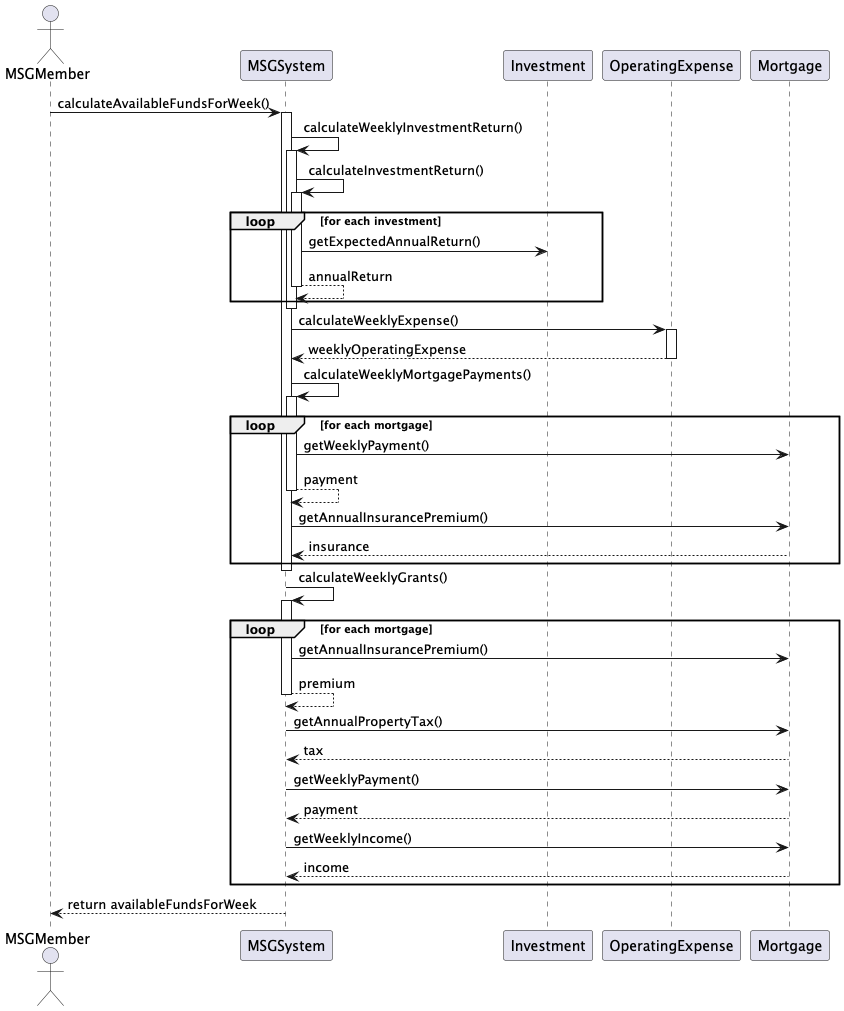
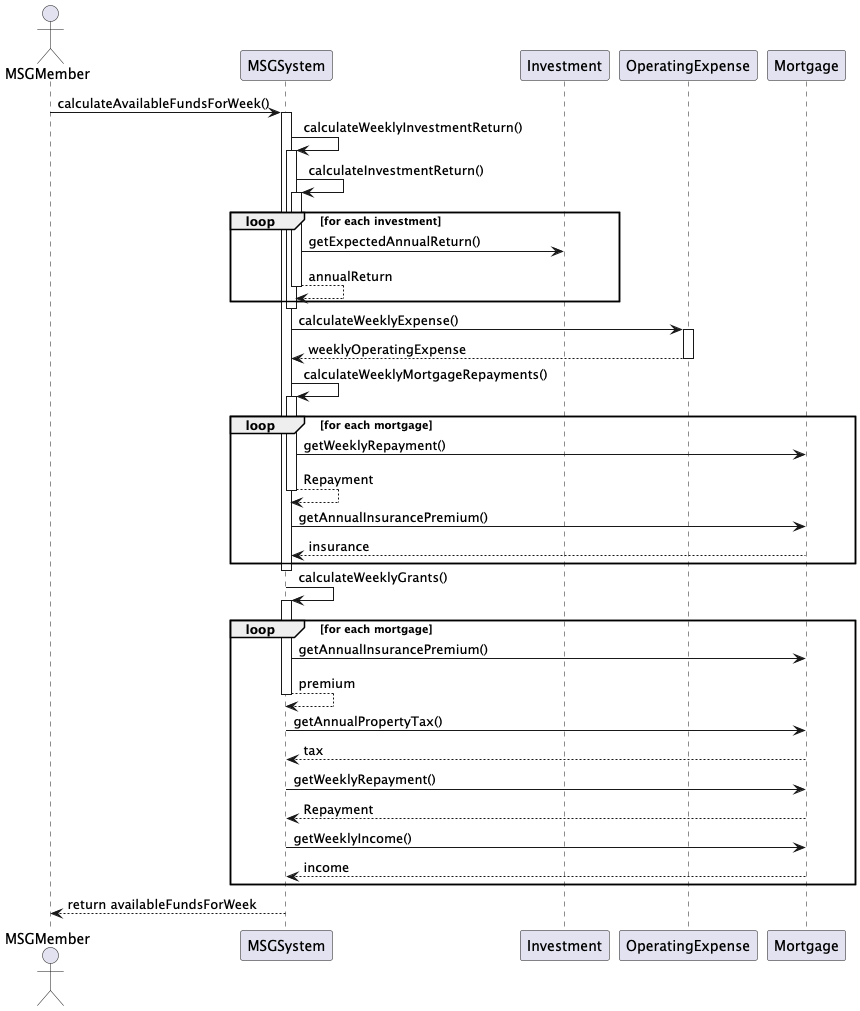
Fix : Payment -> Repayment 워딩 수정

diff --git a/MsgSystem.java b/MsgSystem.java
@@ -8,7 +8,7 @@ public class MsgSystem {
 
     private double availableFundsForWeek;
     private double expectedGrantsForWeek;
-    private double expectedMortgagePaymentsForWeek;
+    private double expectedMortgageRepaymentsForWeek;
 
     public MsgSystem(List<Investment> investments, List<Mortgage> mortgages, OperatingExpense expense) {
         this.investments = investments;
@@ -32,13 +32,13 @@ public class MsgSystem {
         return operatingExpense.calculateWeeklyExpense();
     }
 
-    public double calculateWeeklyMortgagePayments() {
+    public double calculateWeeklyMortgageRepayments() {
         double total = 0.0;
         for (Mortgage mortgage : mortgages) {
-            double escrow = (mortgage.getAnnualInsurancePremium() * mortgage.getAnnualPropetyTax()) / 52.0;
-            total += mortgage.getWeeklyPayment() + escrow;
+            double escrow = (mortgage.getAnnualInsurancePremium() * mortgage.getAnnualPropertyTax()) / 52.0;
+            total += mortgage.getWeeklyRepayment() + escrow;
         }
-        this.expectedMortgagePaymentsForWeek = total;
+        this.expectedMortgageRepaymentsForWeek = total;
         return total;
     }
 
@@ -46,7 +46,7 @@ public class MsgSystem {
         double total = 0.0;
         for (Mortgage mortgage : mortgages) {
             double escrow = (mortgage.getAnnualInsurancePremium() + mortgage.getAnnualPropertyTax()) / 52.0;
-            double totalWeeklyPay = mortgage.getWeeklyPayment() + escrow;
+            double totalWeeklyPay = mortgage.getWeeklyRepayment() + escrow;
             double incomeLimit = mortgage.getWeeklyIncome() * 0.28;
 
             if (totalWeeklyPay <= incomeLimit) {
@@ -60,10 +60,10 @@ public class MsgSystem {
     public double calculateAvailableFundsForWeek() {
         double weeklyInvestment = calculateWeeklyInvestmentReturn();
         double weeklyOperatingExpense = calculateWeeklyOperatingExpense();
-        double weeklyMortgagePayments = calculateWeeklyMortgagePayments();
+        double weeklyMortgageRepayments = calculateWeeklyMortgageRepayments();
         double weeklyGrants = calculateWeeklyGrants();
 
-        this.availableFundsForWeek = weeklyInvestment + weeklyOperatingExpense + weeklyMortgagePayments + weeklyGrants;
+        this.availableFundsForWeek = weeklyInvestment + weeklyOperatingExpense + weeklyMortgageRepayments + weeklyGrants;
         return this.availableFundsForWeek;
     }
 
@@ -72,7 +72,7 @@ public class MsgSystem {
         System.out.println("예상 연간 운영 비용: " + operatingExpense.getAnnualExpense());
         System.out.println("주간 운영 비용: " + calculateWeeklyOperatingExpense());
         System.out.println("예상 주간 투자 수익: " + calculateWeeklyInvestmentReturn());
-        System.out.println("예상 주간 모기지 지불: " + expectedMortgagePaymentsForWeek);
+        System.out.println("예상 주간 모기지 지불: " + expectedMortgageRepaymentsForWeek);
         System.out.println("예상 주간 보조금: " + expectedGrantsForWeek);
         System.out.println("주간 사용 가능한 자금: " + availableFundsForWeek);
     }
@@ -92,7 +92,7 @@ public class MsgSystem {
         for (Mortgage mortgage : mortgages) {
             System.out.println("모기지 ID: " + mortgage.getMortgageId() +
                                ", 차용인: " + mortgage.getBorrower() +
-                               ", 주간 지불: " + mortgage.getWeeklyPayment() +
+                               ", 주간 지불: " + mortgage.getWeeklyRepayment() +
                                ", 주간 소득: " + mortgage.getWeeklyIncome() +
                                ", 연간 재산세: " + mortgage.getAnnualPropertyTax() +
                                ", 연간 보험료: " + mortgage.getAnnualInsurancePremium());

diff --git a/Mortgage.java b/Mortgage.java
@@ -6,7 +6,7 @@ public class Mortgage {
     private double originalPurchasePrice;
     private LocalDate issuedDate;
 
-    private double weeklyPayment;
+    private double weeklyRepayment;
 
     private double annualPropertyTax;
     private LocalDate propertyTaxUpdatedDate;
@@ -15,13 +15,13 @@ public class Mortgage {
     private LocalDate insuranceUpdatedDate;
 
     public Mortgage(String mortgageId, Borrower borrower, double originalPurchasePrice,
-                    LocalDate issuedDate, double weeklyPayment, double weeklyIncome,
+                    LocalDate issuedDate, double weeklyRepayment, double weeklyIncome,
                     double annualPropertyTax, double annualInsurancePremium) {
         this.mortgageId = mortgageId;
         this.borrower = borrower;
         this.originalPurchasePrice = originalPurchasePrice;
         this.issuedDate = issuedDate;
-        this.weeklyPayment = weeklyPayment;
+        this.weeklyRepayment = weeklyRepayment;
         this.annualPropertyTax = annualPropertyTax;
         this.annualInsurancePremium = annualInsurancePremium;
         this.propertyTaxUpdatedDate = LocalDate.now();
@@ -36,8 +36,8 @@ public class Mortgage {
         return borrower;
     }
 
-    public double getWeeklyPayment() {
-        return weeklyPayment;
+    public double getWeeklyRepayment() {
+        return weeklyRepayment;
     }
 
     public double getAnnualPropertyTax() {
@@ -52,8 +52,8 @@ public class Mortgage {
         return borrower.getTotalIncome() / 52.0;
     }
 
-    public double calculateMonthlyPayment() {
-        return weeklyPayment * 4.345;
+    public double calculateMonthlyRepayment() {
+        return weeklyRepayment * 4.345;
     }
 
     public void updatePropertyTax(double tax, LocalDate updatedDate) {

diff --git a/Investment.java b/Investment.java
@@ -6,12 +6,11 @@ public class Investment {
     private double expectedAnnualReturn;
     private LocalDate returnRateUpdatedDate;
 
-    // 생성자, getter/setter 생략
     public Investment(String investmentId, String investmentName, double expectedAnnualReturn) {
         this.investmentId = investmentId;
         this.investmentName = investmentName;
         this.expectedAnnualReturn = expectedAnnualReturn;
-        this.returnRateUpdatedDate = LocalDate.now(); // 초기화 시 현재 날짜로 설정
+        this.returnRateUpdatedDate = LocalDate.now();
     }
 
     public void updateReturnRate(LocalDate date, double newRate) {
